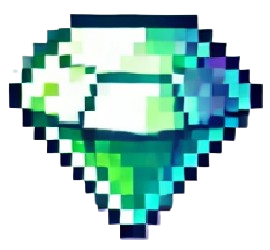
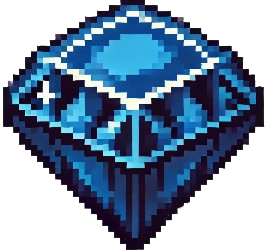
star_images

diff --git a/1_The Artistic Invasion.py b/1_The Artistic Invasion.py
@@ -99,10 +99,10 @@ player_image = player_image1
 
 # 적 이미지 로드 및 크기 조정
 enemy_images = {
-    "up": pygame.image.load(r"C:/Users/HOME/Desktop/새싹_교육/GitHub_CHOI/project_4.2_Pixel Predators-The Artistic Invasion/project4.2_mob/mob_png.png"),
-    "down": pygame.image.load(r"C:/Users/HOME/Desktop/새싹_교육/GitHub_CHOI/project_4.2_Pixel Predators-The Artistic Invasion/project4.2_mob/mob_png.png"),
-    "left": pygame.image.load(r"C:/Users/HOME/Desktop/새싹_교육/GitHub_CHOI/project_4.2_Pixel Predators-The Artistic Invasion/project4.2_mob/mob_png.png"),
-    "right": pygame.image.load(r"C:/Users/HOME/Desktop/새싹_교육/GitHub_CHOI/project_4.2_Pixel Predators-The Artistic Invasion/project4.2_mob/mob_png.png")
+    "up": pygame.image.load(r"C:/Users/HOME/Desktop/새싹_교육/GitHub_CHOI/project_4.2_Pixel Predators-The Artistic Invasion/project4.2_mob/mob_enemy_Relentless Charger_1.png"),
+    "down": pygame.image.load(r"C:/Users/HOME/Desktop/새싹_교육/GitHub_CHOI/project_4.2_Pixel Predators-The Artistic Invasion/project4.2_mob/mob_enemy_Relentless Charger_2.png"),
+    "left": pygame.image.load(r"C:/Users/HOME/Desktop/새싹_교육/GitHub_CHOI/project_4.2_Pixel Predators-The Artistic Invasion/project4.2_mob/mob_enemy_Relentless Charger_3.png"),
+    "right": pygame.image.load(r"C:/Users/HOME/Desktop/새싹_교육/GitHub_CHOI/project_4.2_Pixel Predators-The Artistic Invasion/project4.2_mob/mob_enemy_Relentless Charger_4.png")
 }
 
 # 크기 조정
@@ -125,19 +125,18 @@ energy_balls = []
 # 별 설정
 star_size = 40  # 크기를 40으로 조정
 star_images = [
-    r"C:/Users/HOME/Desktop/새싹_교육/GitHub_CHOI/project_4.2_Pixel Predators-The Artistic Invasion/project4.2_mob/mob_png.png",
-    r"C:/Users/HOME/Desktop/새싹_교육/GitHub_CHOI/project_4.2_Pixel Predators-The Artistic Invasion/project4.2_mob/mob_png.png",
-    r"C:/Users/HOME/Desktop/새싹_교육/GitHub_CHOI/project_4.2_Pixel Predators-The Artistic Invasion/project4.2_mob/mob_png.png",
-    r"C:/Users/HOME/Desktop/새싹_교육/GitHub_CHOI/project_4.2_Pixel Predators-The Artistic Invasion/project4.2_mob/mob_png.png",
-    r"C:/Users/HOME/Desktop/새싹_교육/GitHub_CHOI/project_4.2_Pixel Predators-The Artistic Invasion/project4.2_mob/mob_png.png",
-    r"C:/Users/HOME/Desktop/새싹_교육/GitHub_CHOI/project_4.2_Pixel Predators-The Artistic Invasion/project4.2_mob/mob_png.png",
-    r"C:/Users/HOME/Desktop/새싹_교육/GitHub_CHOI/project_4.2_Pixel Predators-The Artistic Invasion/project4.2_mob/mob_png.png",
-    r"C:/Users/HOME/Desktop/새싹_교육/GitHub_CHOI/project_4.2_Pixel Predators-The Artistic Invasion/project4.2_mob/mob_png.png",
-    r"C:/Users/HOME/Desktop/새싹_교육/GitHub_CHOI/project_4.2_Pixel Predators-The Artistic Invasion/project4.2_mob/mob_png.png",
-    r"C:/Users/HOME/Desktop/새싹_교육/GitHub_CHOI/project_4.2_Pixel Predators-The Artistic Invasion/project4.2_mob/mob_png.png",
-    r"C:/Users/HOME/Desktop/새싹_교육/GitHub_CHOI/project_4.2_Pixel Predators-The Artistic Invasion/project4.2_mob/mob_png.png",
-    r"C:/Users/HOME/Desktop/새싹_교육/GitHub_CHOI/project_4.2_Pixel Predators-The Artistic Invasion/project4.2_mob/mob_png.png",
-    r"C:/Users/HOME/Desktop/새싹_교육/GitHub_CHOI/project_4.2_Pixel Predators-The Artistic Invasion/project4.2_mob/mob_png.png"
+    r"C:/Users/HOME/Desktop/새싹_교육/GitHub_CHOI/project_4.2_Pixel Predators-The Artistic Invasion/project4.2_mob/mob_Jewelry_1.png",
+    r"C:/Users/HOME/Desktop/새싹_교육/GitHub_CHOI/project_4.2_Pixel Predators-The Artistic Invasion/project4.2_mob/mob_Jewelry_2.png",
+    r"C:/Users/HOME/Desktop/새싹_교육/GitHub_CHOI/project_4.2_Pixel Predators-The Artistic Invasion/project4.2_mob/mob_Jewelry_3.png",
+    r"C:/Users/HOME/Desktop/새싹_교육/GitHub_CHOI/project_4.2_Pixel Predators-The Artistic Invasion/project4.2_mob/mob_Jewelry_4.png",
+    r"C:/Users/HOME/Desktop/새싹_교육/GitHub_CHOI/project_4.2_Pixel Predators-The Artistic Invasion/project4.2_mob/mob_Jewelry_5.png",
+    r"C:/Users/HOME/Desktop/새싹_교육/GitHub_CHOI/project_4.2_Pixel Predators-The Artistic Invasion/project4.2_mob/mob_Jewelry_6.png",
+    r"C:/Users/HOME/Desktop/새싹_교육/GitHub_CHOI/project_4.2_Pixel Predators-The Artistic Invasion/project4.2_mob/mob_Jewelry_7.png",
+    r"C:/Users/HOME/Desktop/새싹_교육/GitHub_CHOI/project_4.2_Pixel Predators-The Artistic Invasion/project4.2_mob/mob_Jewelry_8.png",
+    r"C:/Users/HOME/Desktop/새싹_교육/GitHub_CHOI/project_4.2_Pixel Predators-The Artistic Invasion/project4.2_mob/mob_Jewelry_9.png",
+    r"C:/Users/HOME/Desktop/새싹_교육/GitHub_CHOI/project_4.2_Pixel Predators-The Artistic Invasion/project4.2_mob/mob_Jewelry_10.png",
+    r"C:/Users/HOME/Desktop/새싹_교육/GitHub_CHOI/project_4.2_Pixel Predators-The Artistic Invasion/project4.2_mob/mob_Jewelry_11.png",
+    r"C:/Users/HOME/Desktop/새싹_교육/GitHub_CHOI/project_4.2_Pixel Predators-The Artistic Invasion/project4.2_mob/mob_Jewelry_12.png"
 ]
 star_appear_time = 10
 
